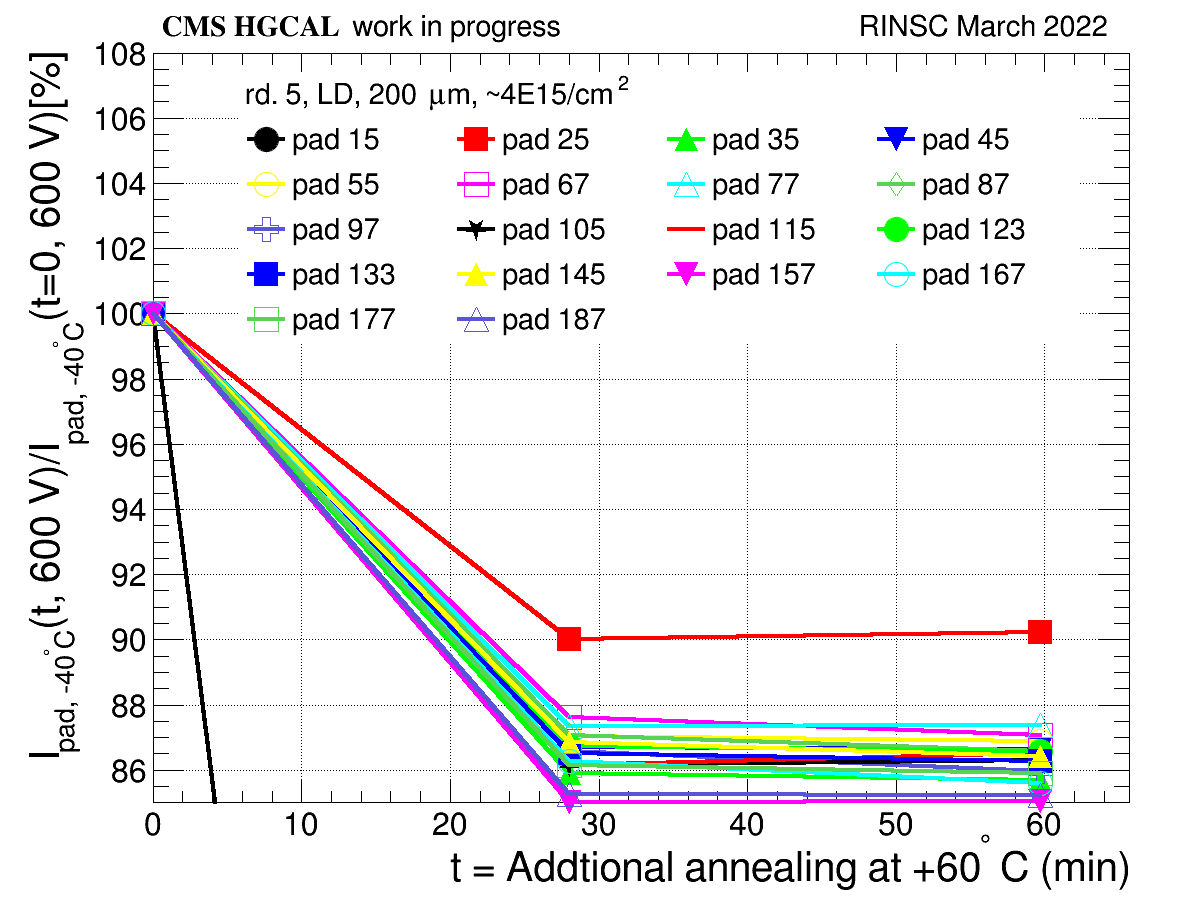
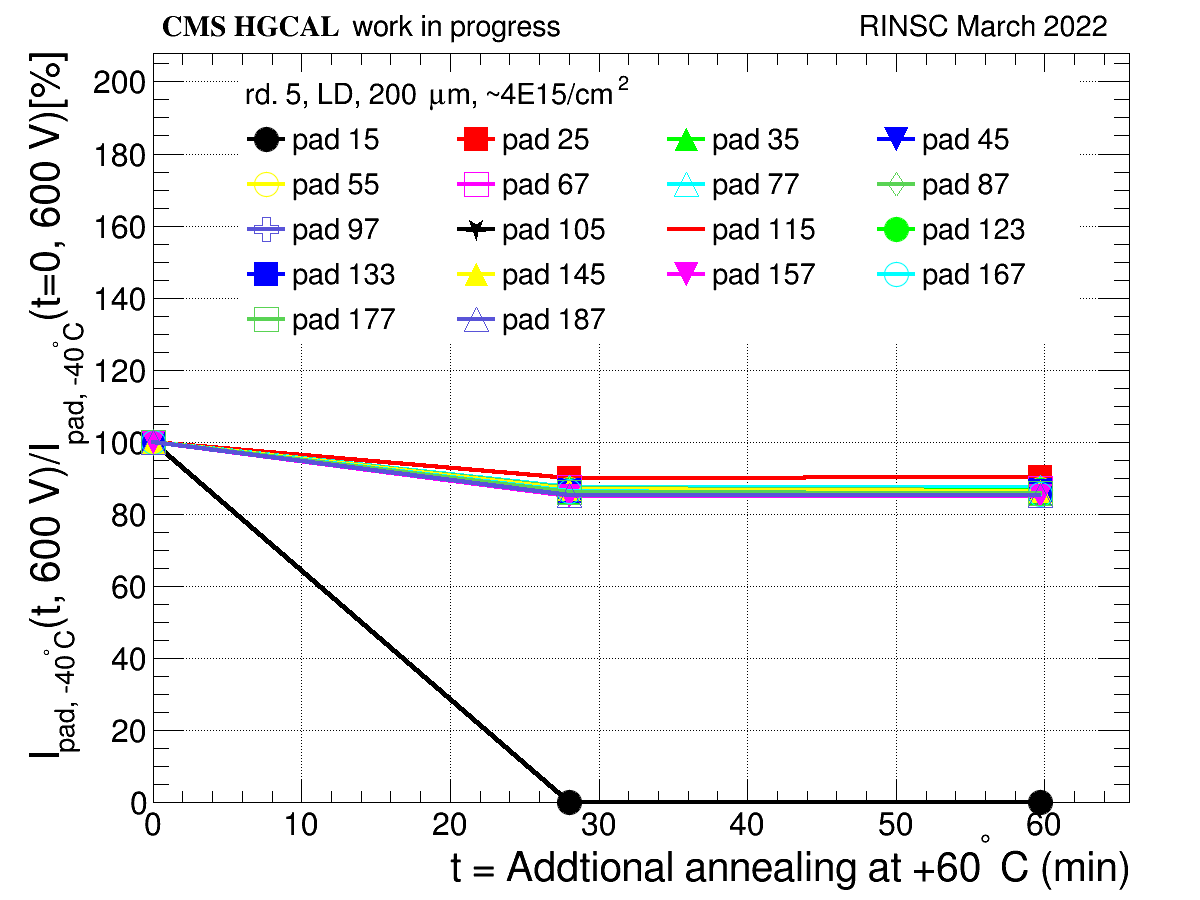
produced all IV plots

diff --git a/slides/Round5_RINSC.tex b/slides/Round5_RINSC.tex
@@ -290,7 +290,7 @@ Chaochen Yuan\and Philipp Zehetner\and \textbf{Marta Krawczyk} }
    \end{columns}
    \begin{itemize}
       \item Reached the limit at around 60 mins
-      \item Other channels all have consistent plot
+      \item Other channels all have consistent plot(exeptions exist!)
    \end{itemize}
 \end{frame}
 
@@ -305,6 +305,11 @@ Chaochen Yuan\and Philipp Zehetner\and \textbf{Marta Krawczyk} }
            \includegraphics[width=1.0\textwidth]{plots/8in_198ch_2019_N4790_09_4E15_neg40degC_annealing_current_650.png}
        \end{figure}
    \end{columns}
+   \begin{itemize}
+      \item Channel 15 seems to be masked at 30 and 60 annealing measurement
+     \item Only drawing 18 channels, there could be more abnormal channels like 15
+     \item Need to further investigate this
+   \end{itemize}
 \end{frame}
 
 \begin{frame}{Current vs annealing time for 700V and 800V}
@@ -320,6 +325,20 @@ Chaochen Yuan\and Philipp Zehetner\and \textbf{Marta Krawczyk} }
    \end{columns}
 \end{frame}
 
+\begin{frame}{Anealing effect on IV channel 15 }
+  \begin{columns}
+       \column{.5\textwidth}
+       \begin{figure}
+           \includegraphics[width=1.0\textwidth]{plots/8in_198ch_2019_N4790_09_4E15_neg40degC_annealing_IV_ch15.png}
+           \caption{Annealing effect on IV channel 15 }
+       \end{figure}
+       \column{.5\textwidth}
+       \begin{figure}
+           \includegraphics[width=1.0\textwidth]{plots/8in_198ch_2019_N4790_09_4E15_neg40degC_annealing_IV_ch13.png}
+           \caption{Annealing effect on IV channel 13}
+       \end{figure}
+   \end{columns}
+\end{frame}
 
 
 

diff --git a/N4790_21_annealing_status/N4790_21_annealing_status/plots/annealing_iv/current_vs_annealing.py b/N4790_21_annealing_status/N4790_21_annealing_status/plots/annealing_iv/current_vs_annealing.py
@@ -31,7 +31,8 @@ def main():
     plotsDir = '/afs/cern.ch/work/h/hhua/HGCal_sensorTest/RINSC_March2022_ALPS/slides/plots/' 
     #measurement specifics
     # _measID = "8in_198ch_2019_N4790_21_4E15_neg40degC"
-    _measID = '8in_198ch_2019_N4790_09_4E15_neg40degC'
+    # _measID = '8in_198ch_2019_N4790_09_4E15_neg40degC'
+    _measID = '8in_198ch_2019_N4792_7_neg40degC'
     
     
     
@@ -49,10 +50,16 @@ def main():
     # }
     #???true additional_annealing
     #/eos/user/h/hgsensor/HGCAL_test_results/Results/RINSC_March2022_ALPS/HPK_8in_198ch_2019_N4790_09_neg40degC_30minAnnealing/Annealing/annealing_4790_09_0_to_30min.csv
-    true_additional_annealing = {#for N4790_09
+    # true_additional_annealing = {#for N4790_09
+    #     0:0,
+    #    30:28,
+    #    60:59.7 
+    # }
+    true_additional_annealing = {#4792_07
         0:0,
-       30:28,
-       60:59.7 
+        30:31,
+        60:62.1
+        
     }
 
 
@@ -141,7 +148,8 @@ def main():
         graphs[_channel].SetLineColor((NGraphs-1)%9+1)
 
 
-        graphs[_channel].GetYaxis().SetRangeUser(85., 108.)
+        # graphs[_channel].GetYaxis().SetRangeUser(85., 108.)
+        graphs[_channel].GetYaxis().SetRangeUser( 0., 208.)
         xaxis_title = "t = Addtional annealing at +60^{#circ} C (min)"
         cm.setup_x_axis(graphs[_channel].GetXaxis(), pad, {"Title": xaxis_title, "TitleOffset": 0.90*graphs[_channel].GetXaxis().GetTitleOffset()})
         if EVALVOLTAGE == -1:

diff --git a/N4790_21_annealing_status/N4790_21_annealing_status/plots/annealing_iv/overlay_iv_curve.py b/N4790_21_annealing_status/N4790_21_annealing_status/plots/annealing_iv/overlay_iv_curve.py
@@ -39,7 +39,8 @@ def main(
     # repeatedMeasureNames = ["_1MOhm", "_10minAnnealing", "_20minAnnealing", "_30minAnnealing", "_40minAnnealing", "_50minAnnealing", "_60minAnnealing", "_85minAnnealing", "_95minAnnealing", "_110minAnnealing"]
     # _measID = '8in_198ch_2019_N4790_21_4E15'
     # repeatedMeasureNames = [ '_neg37degC_tscan', '_neg38degC_tscan','_neg39degC_tscan', '_neg40degC_tscan', '_neg41degC_tscan', '_neg42degC_tscan' ]
-    _measID = '8in_198ch_2019_N4790_09_4E15_neg40degC'
+    # _measID = '8in_198ch_2019_N4790_09_4E15_neg40degC'
+    _measID = '8in_198ch_2019_N4792_7_neg40degC'
     repeatedMeasureNames = [ '', '_30minAnnealing', '_60minAnnealing']
     
     
